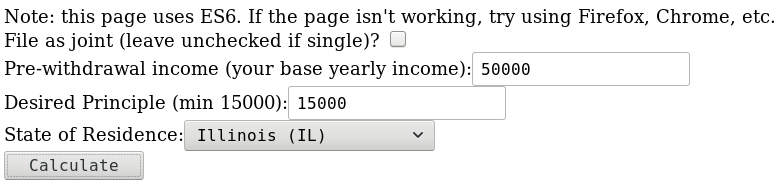
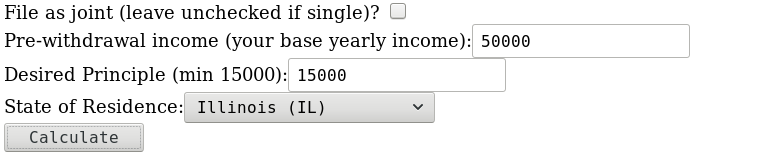
Added TOC, image, ES6 checker on calculator.

diff --git a/index.html b/index.html
@@ -4,32 +4,48 @@
     <meta charset="utf-8">
     <title>The Facts About Bitcoin IRA, Inc.</title>
     <link rel="stylesheet" type="text/css" href="./basicStyles.css">
+    <script type="text/javascript">
+        function init(){
+            let toc = document.getElementsByClassName("contentList")[0];
+            
+            let headers = document.getElementsByTagName("h3");
+            let ctr = 0;
+            for(let header of headers){
+                let title = header.innerHTML;
+                let anchor = document.createElement('a');
+                anchor.setAttribute('name', title);
+                header.appendChild(anchor);
+                
+                let item = document.createElement('li');
+                let link = document.createElement('a');
+                link.setAttribute('href', '#'+title);
+                link.innerHTML = title;
+                item.appendChild(link);
+                toc.appendChild(item);
+            }
+        }
+    </script>
 </head>
-<body bgcolor="Beige">
+<body bgcolor="Beige" onload="init()">
 <center><h1>The Facts about Bitcoin IRA, Inc.</h1>
 <div class="subtitle">An in-depth analysis on why you should stay far away from this organization</div>
 </center>
 <h3>Preface</h3>
-<p>When I first heard of Bitcoin IRA, Inc, it was when I was watching Youtube on my phone. "This has to be some kind of joke," I thought, but sadly, no, it wasn't. This is a real company that wants you to pay real money to buy an extremely volatile asset with your long-term investment using their services. And they're mass-advertising it to the general public.</p>
-<p>But first some questions for you to consider:</p>
-<ul>
-    <li>Are they convincing people to do this? If so, how?</li>
-    <ul>
-        <li>Who are they trying to market to?</li>
-        <li>What are they telling the general public?</li>
-        <li>What are they hiding?</li>
-        <li>What's in it for them?</li>
-    </ul>
-    <li>Is it a ruse, and if so, how elaborate of a ruse is it?</li>
-</ul>
+<p>When I first heard of Bitcoin IRA, Inc, it was when I was watching Youtube on my phone. "This has to be some kind of joke," I thought, but sadly, no, it wasn't. This is a real company that wants you to pay real money to buy an extremely volatile asset with your long-term retirement funds using their services. And they're mass-advertising it to the general public.</p>
+
 <h3>Motivation</h3>
 <p>Let's get this out of the way first. I am a value investor <sub>(in training)</sub>, which means I look for things that I think are undervalued and invest in them. Therefore, the question I have to ask myself before I buy anything is, "Do I have a good, rational reason to buy it?" As a corollary of that, "Is this thing worth more than what I am paying?"</p>
-<p>The reason I state this is that, honestly speaking, it means that I have a bias against Bitcoin and cryptocurrency investment in itself. So I do not think Bitcoin is a good investment idea as of right now, and I do not think that Bitcoin is worth over $10K per coin. Some of that bias may come out, so if you find that upsetting, please let me direct you to this <a href="https://html5zombo.com/">site</a>. But for what it's worth, this project isn't about that. I will not tell you to buy or not buy Bitcoin. That decision is yours to make.</p>
-<p>I will, however, attempt to convince you that investing using Bitcoin IRA, Inc. is a terrible decision for you if you do decide to invest in Bitcoin.</p>
+<p>The reason I state this is that, honestly speaking, it means that I have a bias against Bitcoin and cryptocurrency investment in itself. So I do not think Bitcoin is a good investment idea as of right now, and I do not think that Bitcoin is worth over $10K per coin. Some of that bias may come out, so if you find that upsetting, please let me direct you to this <a href="https://html5zombo.com/">site</a>. But for what it's worth, this project isn't about that. I will not tell you to buy or not buy Bitcoin. That decision is yours to make. I'm not writing this article because I hate Bitcoin, but rather because I do not want to see innocent people hurt by another corporation.</p>
+
+<div class="toc">
+    Table of Contents:
+    <ul class="contentList"></ul>
+</div>
+
 <h3>The Investigation</h3>
 <p>So, let's take a look at their website, <a href="http://bitcoinira.com" target="_blank">http://bitcoinira.com</a>:</p>
 <img class="exhibition" src="./img/BitcoinIRAoverview.png" class="snapshot">
-<p>At first glance, it looks professional and modern. At least they got the visuals right. They have a neat, avant-garde logo and diagram showing the Bitcoin and Ethereum logos and a dollar sign. I'm not sure what it means, though, but it looks neat, kind of like how really venomous spiders look cool.</p>
+<p>At first glance, it looks professional and modern. At least they got the visuals right. They have a neat, sleek logo and background image showing the Bitcoin and Ethereum logos and a dollar sign. I'm not sure what it means, though, but it looks neat, kind of like how really venomous spiders look cool.</p>
 
 <h4>Problem #1: Abusing Outside Quotes</h4>
 <p>Anyway, let's look at that blurb at the bottom there. It's really a slider with the following three messages:</p>
@@ -37,14 +53,14 @@
 <p>These all are quite vacuous, but the one I want to call your attention to is number 2: the Investopedia quote. This is really quite a clever little trick:
 <ul>
     <li>Investopedia is a fairly reliable source of information. (Dumb people like me use it to look up things we don't understand.)</li>
-    <li>Since it is a quote, Bitcoin IRA, Inc. is not liable for false advertising. I looked on other parts of their site. They never claim this themselves, either. For example, at the top they say that they are "IRS-compliant." What does this all mean? Well...</li>
+    <li>Since it is a quote, Bitcoin IRA, Inc. is not liable for false advertising. I looked on other parts of their site. They never claim this themselves, either. For example, at the top they say that they are "IRS-compliant" instead. What does this all mean? Well...</li>
     <li>Let's look at the statement, "Approved by the IRS." Note that it does not say <i>endorsed</i> by. All this is really saying is, "We're following the IRS regulations." However, I get the feeling that's not what they want you to believe. Why else would they put that there if they've already said it? Don't be fooled.</li>
 </ul>
 </p>
 <p> The IRS published a <a href="https://www.irs.gov/pub/irs-pdf/p3125.pdf">document</a> declaring at the very top:</p>
 <img class="exhibition" src="./img/IRSMessage.png" title="Quite the eye-opener, no?">
 <p>I encourage you to read this for yourself.</p>
-<p>So, really what this quote is saying is, "This is the first organization that you can buy Bitcoin directly with using your retirement funds. Yay, us. We're technically following the law with the Risks and Disclosures article."</p>
+<p>So, really the only reason they could have put the quote there is to say, "This is the first organization that you can buy Bitcoin directly with using your retirement funds. Yay, us. We're technically following the law with the Risks and Disclosures statement."</p>
 
 <h4>Problem #2: Worthless Reviews</h4>
 <p>Scrolling down a bit further, we see the following:</p>
@@ -53,16 +69,16 @@
 
 <p>Again, not saying Bitcoin is bad. I'm just saying that an investor should always have a good reason to buy something. Otherwise, it's just gambling, and you might as well just go to a casino for a night. In the case of many, it's gambling with their futures, or worse, their children and loved ones.</p>
 
+<p>The only thing you can probably tell from the reviews about Bitcoin IRA is that the customer service is good. What the reviews don't tell you is whether or not this company is trustworthy or why switching to this company is a good idea. This is not a restaurant. Customer service is a secondary issue.</p>
+
 <p><i>By the way, BirdEye is just a combination of the Facebook and Google reviews. That third link is just padding, like on my old college resume when I thought "Manga Translator" was a good thing to put on there. Stupid old me.</i></p>
 
 <h4>Problem #3: The Ebook</h4>
 <p>Next on the page, we see this:</p>
 <img class="exhibition" src="./img/Ebook.png">
-<p>First of all, it's actually one of those things where you have to give them your email to get to the download. Second, it's not an ebook. It's an 11-page landscape-oriented brochure. See that book on the right? It's not real. Here's the <a href="http://secured.bitcoinira.com/acton/ct/29829/s-00c3-1711/Bct/l-0001/l-0001:1f3a5/ct1_0/1?sid=TV2%3AzTNxs5iip" target="_blank">link</a>, so you don't have to give them your email. See for yourself. (If that link goes down, <a href="./evidence/c93d8ff3-4ea4-4e8f-b8d5-987555366c0e.pdf">here</a>'s my copy of the file.)</p>
+<p>First of all, it's actually one of those things where you have to give them your email to get to the download. Now I'm getting emails from their staff (which they really need to spell check). I'll show you a few of them for your viewing pleasure at the end. Second, it's not an ebook. It's an 11-page landscape-oriented brochure. See that book on the right? It's not real. Here's the <a href="http://secured.bitcoinira.com/acton/ct/29829/s-00c3-1711/Bct/l-0001/l-0001:1f3a5/ct1_0/1?sid=TV2%3AzTNxs5iip" target="_blank">link</a>, so you don't have to give them your email. See for yourself. (If that link goes down, <a href="./evidence/c93d8ff3-4ea4-4e8f-b8d5-987555366c0e.pdf">here</a>'s my copy of the file.)</p>
 
-<p>Ok, but what's actually wrong with it? I've made an annotated <a href="./evidence/annotated.pdf" target="_blank">copy</a> of the pdf local on my repo. Keep it open and read through it when you're done reading this page.</p>
-
-<p>Now I'm getting emails from their staff (which they really need to spell check). Hooray. I'll show you a few of them for your viewing pleasure at the end.</p>
+<p>Ok, but about its contents? I've made an annotated <a href="./evidence/annotated.pdf" target="_blank">copy</a> of the pdf local on my repo. Keep it open, and read through it when you're done reading this page.</p>
 
 <h4>Problem #4: Clickbait</h4>
 <p>Near the bottom, I saw this article a while ago (<a href="https://bitcoinira.com/articles/gartners-hype-cycle-proves-bitcoin-not-bubble" target="_blank">link</a>):</p>
@@ -78,7 +94,7 @@
     <li>It does not account for technologies that are accepted with little resistance, like the smartphone.</li>
 </ul>
 Tell me again how this subjective, overly simple model proves anything? All this article serves to do is tell you that Bitcoin is guaranteed to go up, therefore you should use Bitcoin IRA Inc. Never mind that so far, they haven't provided a single good reason for why I should use their services to invest in Bitcoin. I had to dig around to actually find it. The reasons they give are simplicity, security, and no tax on capital gains.</p>
-<p>Ok, first, it's not that hard to buy BitCoin. Second, fine, I'll admit it offers a little more security... for Bitcoin... which they're claiming is already secure. Third, with regard to the no capital gains tax, I'll break that down next...</p>
+<p>Ok, first, it's not that hard to buy Bitcoin. Second, fine, I can't refute that it offers a little more security... for Bitcoin... which they're claiming is already secure. Third, with regard to the no capital gains tax, I'll break that down next...</p>
 
 <h4>Problem #5: The Hidden Cost</h4>
 <p>So if all the deceptive practices listed above are not enough to convince you, let me ask you a question: How much is 15%? Why? Because Bitcoin IRA charges the following fees when you deposit into your account:</p>
@@ -96,7 +112,7 @@ Tell me again how this subjective, overly simple model proves anything? All this
 <img class="exhibition" src="./img/InputFields.png">
 <p>And we get a cool table:</p>
 <img class="exhibition" src="./img/Table1.png">
-<p>Analyzing this data, the evidence is clear. Since I am under 59½ by a significant margin, I will probably (over 95% sure) profit more from buying BTC from CoinBase myself if it goes up, even with capital gains taxes, short- or long-term. If I strongly believed that BTC would go up, there would be no reason for me to start the IRA, unless I also believed that BTC would go up <i>and</i> stay up by the time I retire, which is more than three decades from now. Fifteen percent is a killer.</p>
+<p>Analyzing this data, the evidence is clear. Since I am under 59½ by a significant margin, I will probably profit more from buying Bitcoin from CoinBase myself if it goes up, even with capital gains taxes, short- or long-term. If I strongly believed that Bitcoin would go up, there would be no reason for me to start the IRA unless I also believed that Bitcoin would also stay up by the time I retire, which is more than three decades from now. For a high-risk investment, this is not worth the cost. Fifteen percent is a killer. It would be slightly less of a rip-off if they let you diversify, but they don't. It's just cryptocurrencies. (No, I don't count buying other cryptocurrencies as "diversifying.")</p>
 
 <h3>Conclusion</h3>
 <p>Bottom line: do not give your money to this company. They either don't know what they are talking about, or they're trying to lull you into a false sense of security. Everything on the site, with the exception of the risks and disclosures page, is trying to convince you that:
@@ -104,13 +120,13 @@ Tell me again how this subjective, overly simple model proves anything? All this
     <li>Bitcoin is a safe investment and that it will only go up in value.</li>
     <li>It's better to get in now before you miss out. (This is called "Fear of Missing Out".)</li>
     <li>It's a complicated process to buy Bitcoin.</li>
-    <li>Since it is such a safe investment, you should commit to the long-term.</li>
+    <li>Since it is such a safe investment, you should commit long-term.</li>
     <li>Since it's also complicated, you should trust Bitcoin IRA, Inc. to handle your money for you. It's 100% safe, guaranteed.</li>
 </ul>
-...And all the while they aren't really making any of these guarantees as a company, so they can't be held legally responsible. The Gartner cycle article, for example, was written by some person, and is just their opinion. It wouldn't surprise me if somebody on their staff wrote it.</p>
-<p>If you want to invest in Bitcoin, buy it yourself. If you really want it in your IRA, I'd look into GBTC, which trades like a stock. It may have a high premium, but you also sell at a premium. You also don't have to pay brokerages like TD Ameritrade 15% of your money to buy it. That's a plus. In the future, other companies may even open similar cryptocurrency derivative trading alternatives. As if I even really need to say this again, <strong>"Don't use this service."</strong></p>
+...And all the while they aren't really making any of these guarantees as a company, so they can't be held legally responsible. The Gartner cycle article, for example, was written by some person, and is just that person's opinion.</p>
+<p>If you want to use Bitcoin to make money, buy it yourself. If you really want it in your IRA, I'd look into GBTC, which trades like a stock. It may have a high premium, but you also sell at a premium. You also don't have to pay brokerages like TD Ameritrade 15% of your money to buy it. That's a plus. In the future, other companies may even open similar cryptocurrency derivative trading alternatives. As if I even really need to say this again, <strong>"Don't start a Bitcoin IRA."</strong></p>
 
-<h3>Appendix:</h3>
+<h3>Appendix A</h3>
 <p>Here are a few of the more entertaining emails they sent to me.</p>
 
 <p>The first email they sent:</p>
@@ -138,6 +154,13 @@ Tell me again how this subjective, overly simple model proves anything? All this
 <p>Another case where they advertise Bitcoin itself, not their company:</p>
 
 <img src="img/Emails/TwoFools.png" class="exhibition">
+
+<h3>Appendix B</h3>
+<p>Wow, I can't believe I found <a href="https://account.bitcoinira.com/register/thankyou/?">this</a>. I think this alone would have been enough reasons not to trust these people.</p>
+
+<img src="img/Security.png" class="exhibition">
+
+<p>Every idiot knows you're not supposed to give your users debugging output for your servers! But at least they locked down their <a href="https://account.bitcoinira.com/CFIDE/">CFIDE</a> folder. Still, this is a big no-no in deployment. Debugging output is something you have to actually turn on too. As in, it's turned off by default. Amateurs.</p>
 
 <footer>Page maintained on Github by Calculuswhiz. Last updated Jan 2018</footer>
 

diff --git a/calculations.html b/calculations.html
@@ -122,12 +122,17 @@
         }
         
         function init(){
-            populateStates();
+            try {
+                new Function("(a = 0) => a");
+                populateStates();
+            }
+            catch (err) {
+                document.body.innerHTML = "This page uses ES6. Your browser is not supported.";
+            }
         }
     </script>
 </head>
 <body onload="init()">
-Note: this page uses ES6. If the page isn't working, try using Firefox, Chrome, etc.<br>
 File as joint (leave unchecked if single)? <input type="checkbox" id="joint"> <br>
 Pre-withdrawal income (your base yearly income):<input type="text" id="income" value="0"><br>
 Desired Principle (min 15000):<input type="text" id="principle" value="0"><br>

diff --git a/basicStyles.css b/basicStyles.css
@@ -38,6 +38,14 @@ img.exhibition {
     white-space: nowrap;
 }
 
+.toc{
+    border-width: 2px;
+    border-collapse: collapse;
+    border-style: solid;
+    display: inline-block;
+    padding: 10px;
+}
+
 footer{
     text-align: right;
     color: #7f7f7f;
